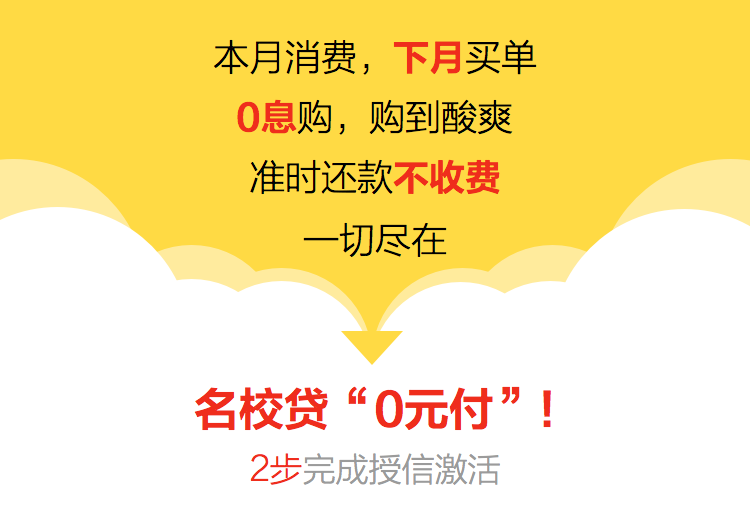
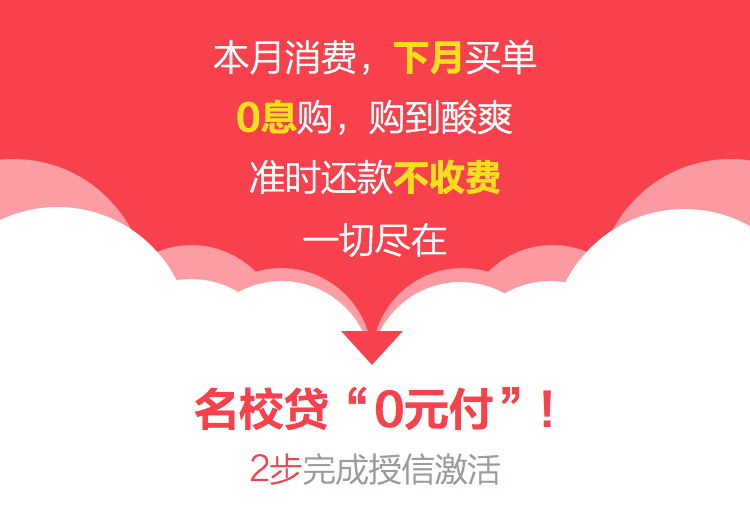
adjust to kky

diff --git a/src/app/account/account.html b/src/app/account/account.html
@@ -1,6 +1,6 @@
 <ion-view id="account">
 	<ion-content>
-		<div class="top">
+		<div class="top white">
 			<div class="refund-tip dbl-padding-left" ng-show="account.overdueDays">
 				<img src="assets/images/horn.png" width="18px" alt="">
 				<small>
@@ -10,13 +10,13 @@
 
 			<div class="available dbl-padding">
 				<div>可用额度（元）
-					<div class="pull-right"><a ui-sref="agreements" class="black underline">相关协议</a></div>
+					<div class="pull-right"><a ui-sref="agreements" class="white underline">相关协议</a></div>
 				</div>
 				<div class="amount">{{account.availabelCredit | currency: ''}}</div>
 			</div>
 		</div>
 
-		<div class="row refund no-padding">
+		<div class="row refund no-padding white">
 			<div class="col-50 dbl-padding-left">
 				<div>应还金额（元）</div>
 				<div class="bold">{{account.repayment | currency: ''}}</div>

diff --git a/src/app/account/account.scss b/src/app/account/account.scss
@@ -3,7 +3,7 @@
 		height: 100%;
 	}
 	.top{
-		background: linear-gradient(#FFDA44, #FBBC29);
+		background: linear-gradient(#F9414D 30%, #FB9AA0);
 	}
 	.refund-tip{
 		line-height: 30px;
@@ -23,7 +23,7 @@
 		}
 	}
 	.refund{
-		background: #FBBC29;
+		background: #FB9AA0;
 		line-height: 2;
 		.col-50{
 			padding: 10px 0 10px 20px;

diff --git a/src/app/index.scss b/src/app/index.scss
@@ -2,7 +2,10 @@
    sass dependencies when defined in the bower.json of your dependencies */
 // bower:scss
 // endbower
-
+$assertive:         #F9414D;
+$button-border-radius:  5px;
+$popup-border-radius:   5px;
+$button-border-width:   0;
 @import "../../bower_components/ionic/scss/ionic";
 
 $black:             #000;

diff --git a/src/app/download/download.scss b/src/app/download/download.scss
@@ -2,7 +2,7 @@
 	line-height: initial;
 	.scroll{
 		height: 100%;
-		background: linear-gradient(#F7BA55, #F5A623 60%);
+		background: linear-gradient(#FB9197, #F9414D 60%);
 		.wrapper{
 			height: 100%;
 			background: url(../assets/images/dabai.png) no-repeat bottom center;

diff --git a/src/app/components/banner/banner.scss b/src/app/components/banner/banner.scss
@@ -2,10 +2,11 @@
 	position: relative;
 	.credit{
 		position: absolute;
-		top: 30%;
+		top: 26%;
 		width: 100%;
 		text-align: center;
 		font-size: 16px;
+		color: $white;
 		.amount{
 			background: $assertive;
 			display: inline-block;
